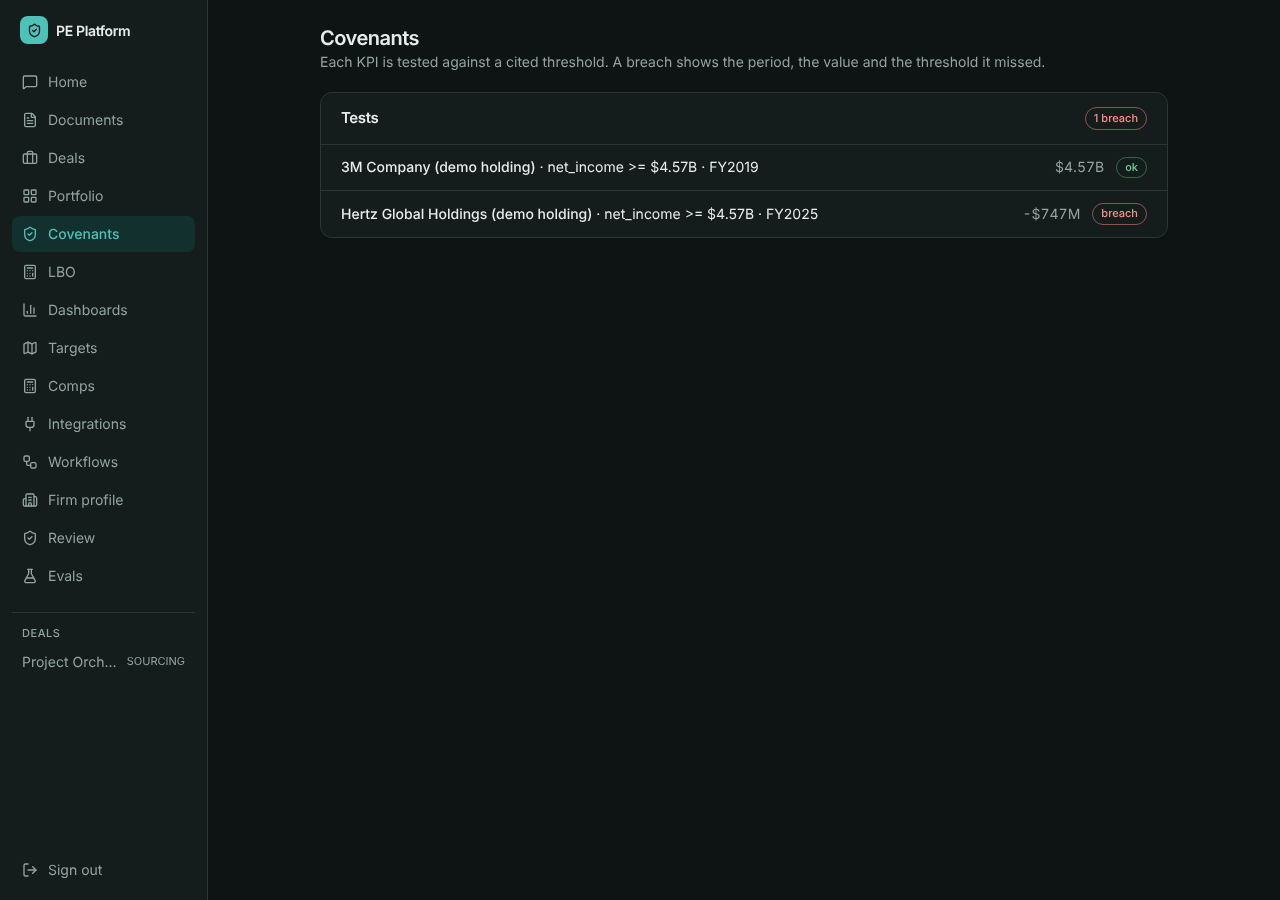
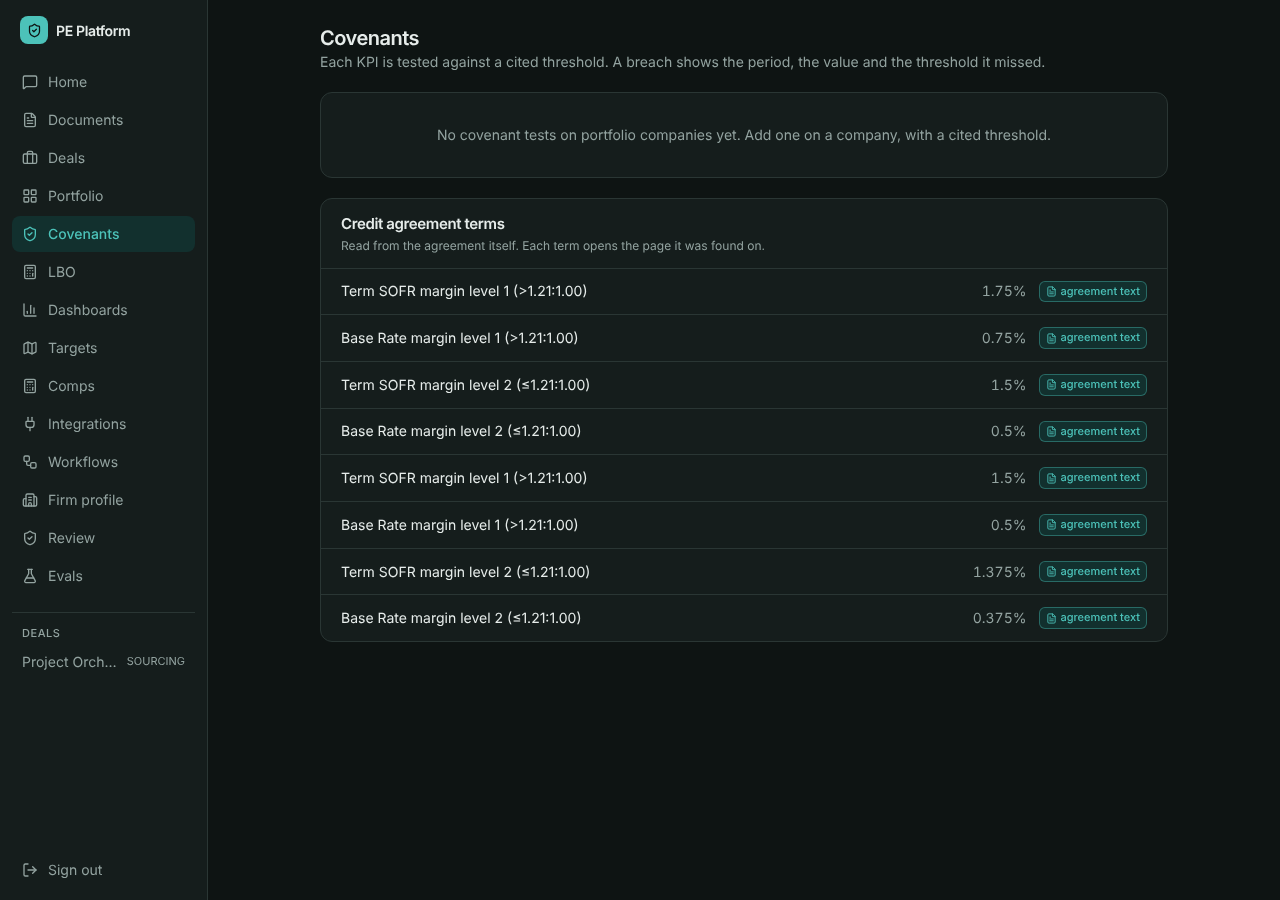
Web: conflicts side by side, credit terms on covenants; demo dir fix (#258)
Conflicts show each value beside its own source chip. Covenants lists
credit-agreement terms (verified facts with no period) and no longer
implies a covenant test exists where none was read. demo_local.sh creates
its data folder before opening the SQLite file.

Claude-Session: https://claude.ai/code/session_01UJT41KsMGqU6qYoKxNBJjn

diff --git a/apps/web/src/Covenants.tsx b/apps/web/src/Covenants.tsx
@@ -1,4 +1,5 @@
-import { api2, CovenantStatus } from "./api";
+import { api2, CovenantStatus, FactRow } from "./api";
+import { SourceChip } from "./source";
 import { fmtAmount } from "./format";
 import { useLoad } from "./hooks";
 import { Badge, Card, CardHead, Empty, Page } from "./ui";
@@ -10,12 +11,28 @@ export function Covenants() {
     const rows = await Promise.all(report.companies.map(async (c) => ({ name: c.name, status: await api2.covenants(c.id) })));
     return rows as { name: string; status: CovenantStatus }[];
   });
+  // Terms read from credit agreements are stored as verified facts with no reporting period.
+  const terms = useLoad(async () => (await api2.facts("verified")).filter((f) => f.period === "per agreement"));
   const tone = (s: string) => (s === "breach" || s === "unit_mismatch" ? "bad" : s === "ok" || s === "pass" ? "ok" : "mut");
   const all = data?.flatMap((r) => r.status.covenants.map((c) => ({ company: r.name, ...c }))) ?? [];
   return (
     <Page title="Covenants" hint="Each KPI is tested against a cited threshold. A breach shows the period, the value and the threshold it missed.">
       {error && <Card className="p-5 text-sm text-bad">{error}</Card>}
-      {data && all.length === 0 && <Card><Empty>No covenants yet. Add one on a portfolio company.</Empty></Card>}
+      {data && all.length === 0 && <Card><Empty>No covenant tests on portfolio companies yet. Add one on a company, with a cited threshold.</Empty></Card>}
+      {terms.data && terms.data.length > 0 && (
+        <Card>
+          <CardHead title="Credit agreement terms" hint="Read from the agreement itself. Each term opens the page it was found on." />
+          <ul className="divide-y divide-line">
+            {terms.data.map((f: FactRow) => (
+              <li key={f.id} className="flex flex-wrap items-center gap-3 px-5 py-3 text-sm">
+                <span className="min-w-0 flex-1">{f.metric}</span>
+                <span className="tnum text-mut">{Number(f.value)}{f.unit === "%" ? "%" : f.unit ? ` ${f.unit}` : ""}</span>
+                {f.sources[0] && <SourceChip docId={f.sources[0].document_id} page={f.sources[0].page} quote={f.sources[0].quote} label={f.sources[0].page > 0 ? `p.${f.sources[0].page}` : "agreement text"} />}
+              </li>
+            ))}
+          </ul>
+        </Card>
+      )}
       {all.length > 0 && (
         <Card>
           <CardHead title="Tests" right={<Badge tone={data?.some((r) => r.status.breaches.length) ? "bad" : "ok"}>{data?.reduce((n, r) => n + r.status.breaches.length, 0)} breach</Badge>} />

diff --git a/apps/web/src/Panels.tsx b/apps/web/src/Panels.tsx
@@ -33,11 +33,30 @@ export function ReviewQueue() {
         </ul>
       </Card>
       <Card>
-        <CardHead title="Conflicts between documents" hint="Same metric and period, different values. Nothing is picked for you." />
+        <CardHead title="Conflicts between documents" hint="Same metric and period, different values. Each value sits beside its own source. Nothing is picked for you." />
         {conflicts.data?.length === 0 && <Empty>No conflicts found.</Empty>}
         <ul className="divide-y divide-line">
           {conflicts.data?.map((c, i) => (
-            <li key={i} className="px-5 py-3 text-sm">{c.entity} · {c.metric} · {c.period}: differ by {c.spread_pct}% {c.likely_rounding && <Badge tone="acc">likely rounding</Badge>}</li>
+            <li key={i} className="px-5 py-3">
+              <div className="flex flex-wrap items-center gap-2 text-sm">
+                <span className="font-medium">{c.entity} · {c.metric} · {c.period}</span>
+                <Badge tone={c.severity === "material" ? "bad" : c.severity === "minor" ? "warn" : "acc"}>{c.severity}</Badge>
+                {c.cross_document && <Badge tone="warn">across documents</Badge>}
+                <span className="text-xs text-mut">spread {c.spread_pct}%</span>
+              </div>
+              <div className="mt-2 grid gap-2 sm:grid-cols-2">
+                {c.sources.map((src) => (
+                  <div key={src.fact_id} className="rounded-lg border border-line p-3">
+                    <p className="tnum text-sm font-medium">{fmtAmount(src.value, "")}</p>
+                    {src.documents.slice(0, 1).map((d) => (
+                      <p key={d.document_id} className="mt-1.5 flex flex-wrap items-center gap-2 text-xs text-mut">
+                        <SourceChip docId={d.document_id} page={d.page} quote={d.quote} label={`${(d.filename ?? "doc").slice(0, 22)} p.${d.page}`} />
+                      </p>
+                    ))}
+                  </div>
+                ))}
+              </div>
+            </li>
           ))}
         </ul>
       </Card>

diff --git a/apps/web/src/api.ts b/apps/web/src/api.ts
@@ -70,7 +70,12 @@ export interface CovenantStatus {
   breaches: (CovenantTest & { covenant_id: number; kpi_metric: string })[];
 }
 export interface Breach { company: string; kpi_metric: string; period: string; status: string; value: string; threshold: string; unit?: string }
-export interface Conflict { entity: string; metric: string; period: string; spread_pct: string; likely_rounding: boolean }
+export interface ConflictSource { fact_id: number; value: string; documents: { document_id: string; filename: string | null; page: number; quote: string }[] }
+export interface Conflict {
+  entity: string; metric: string; period: string; basis: string; spread_pct: string; likely_rounding: boolean;
+  severity: "rounding" | "minor" | "material"; cross_document: boolean; values: { value: string; fact_id: number }[];
+  sources: ConflictSource[];
+}
 export type ConnectorState = "connected" | "needs_key" | "stubbed";
 export interface Connector { name: string; label: string; category: string; auth: string; status: "live" | "planned"; state: ConnectorState; detail: string }
 export interface CompsOut {
